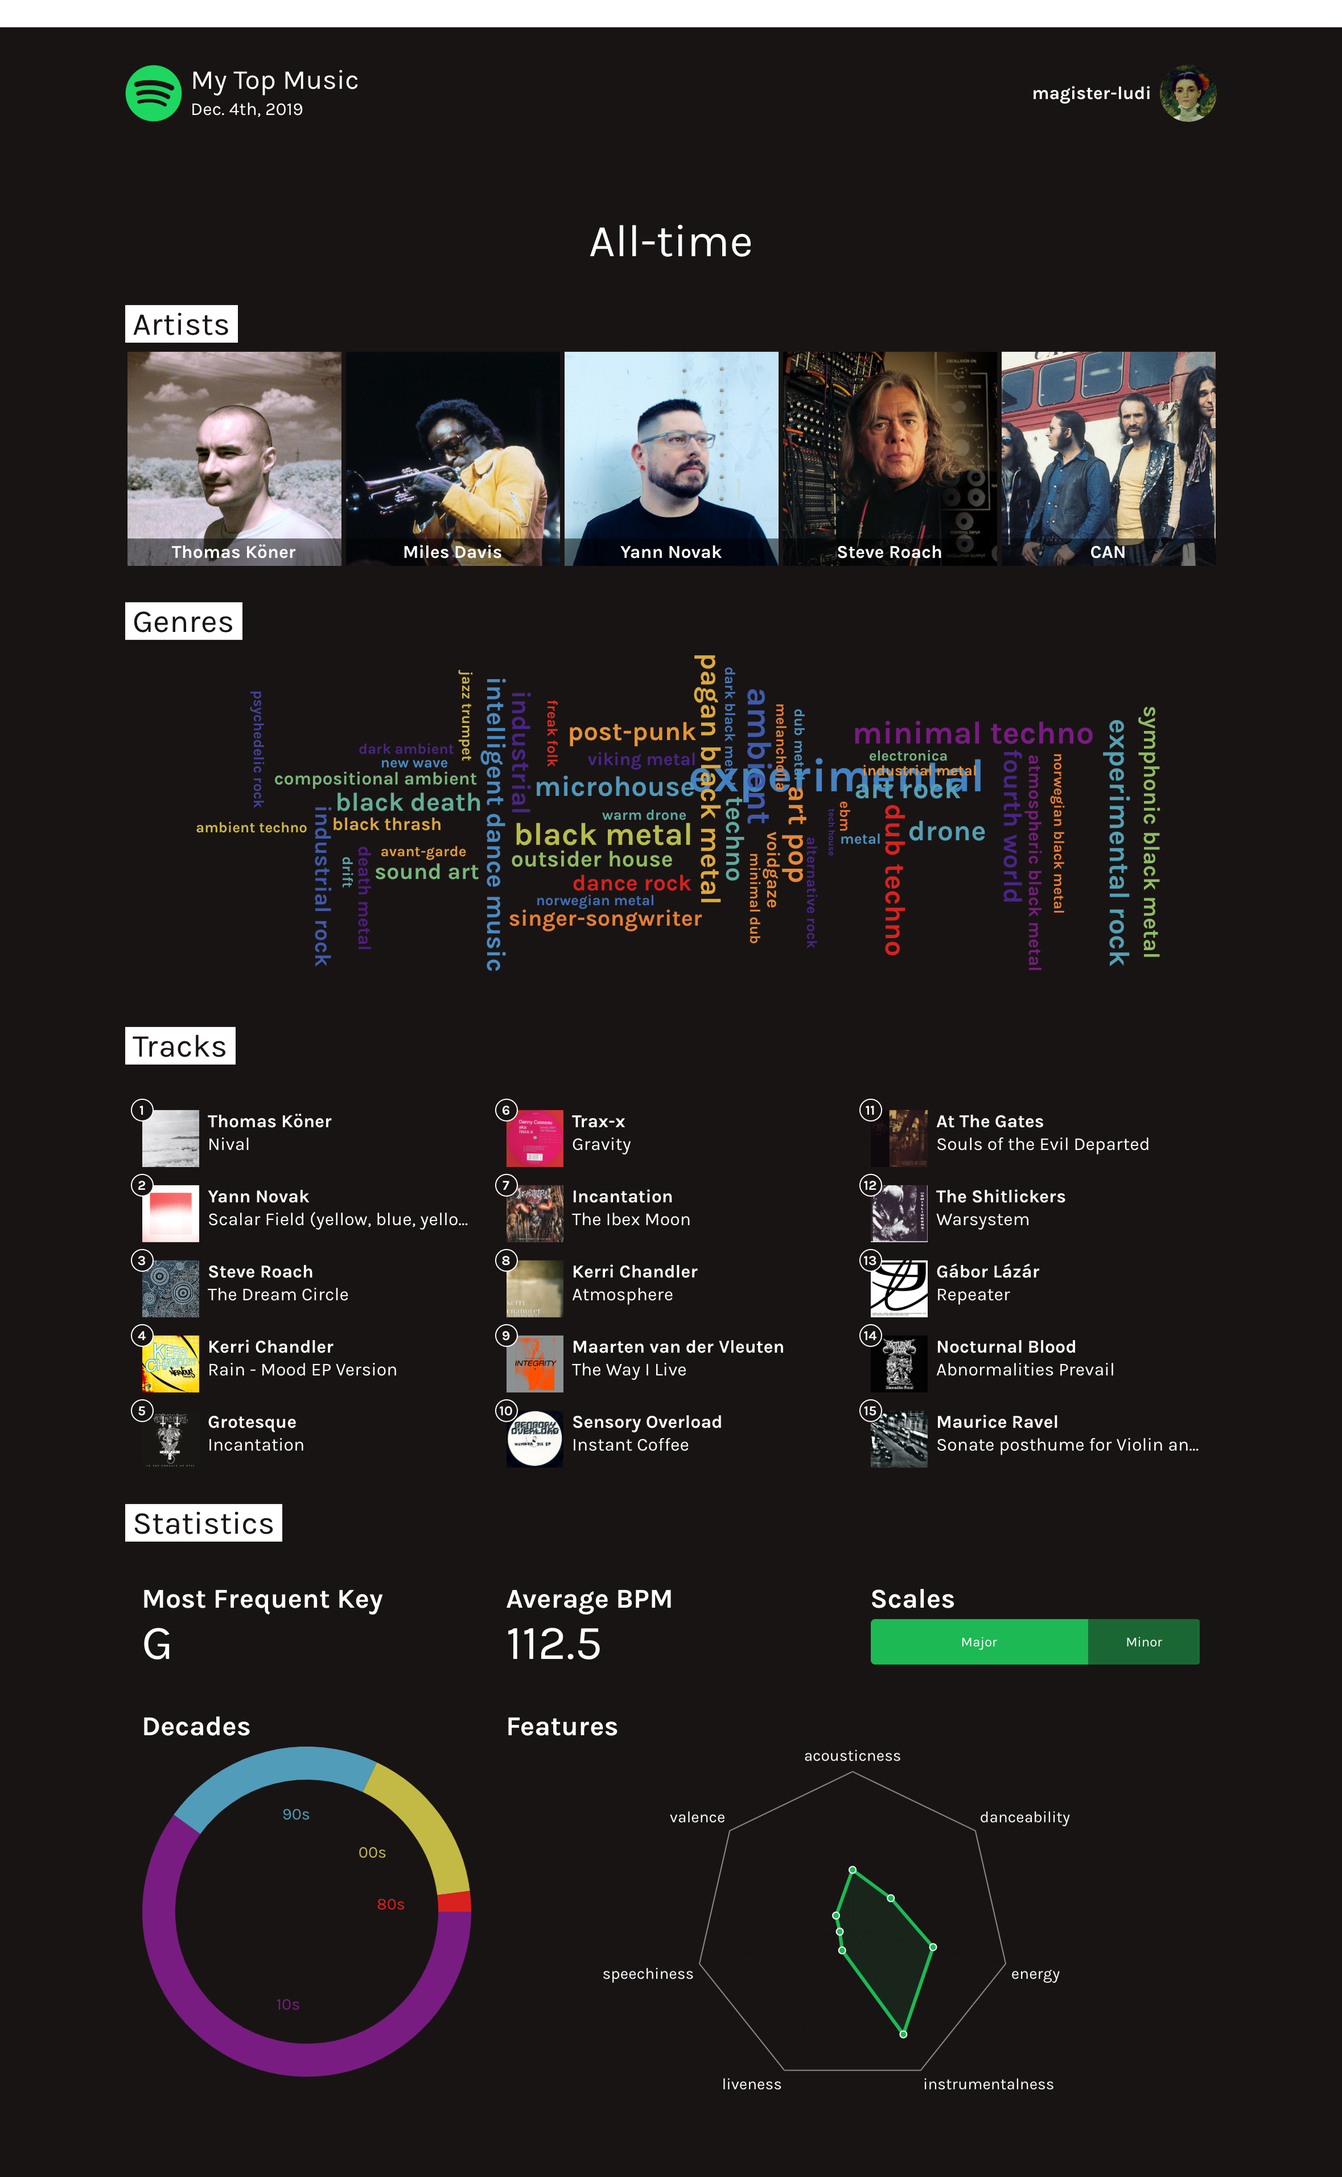
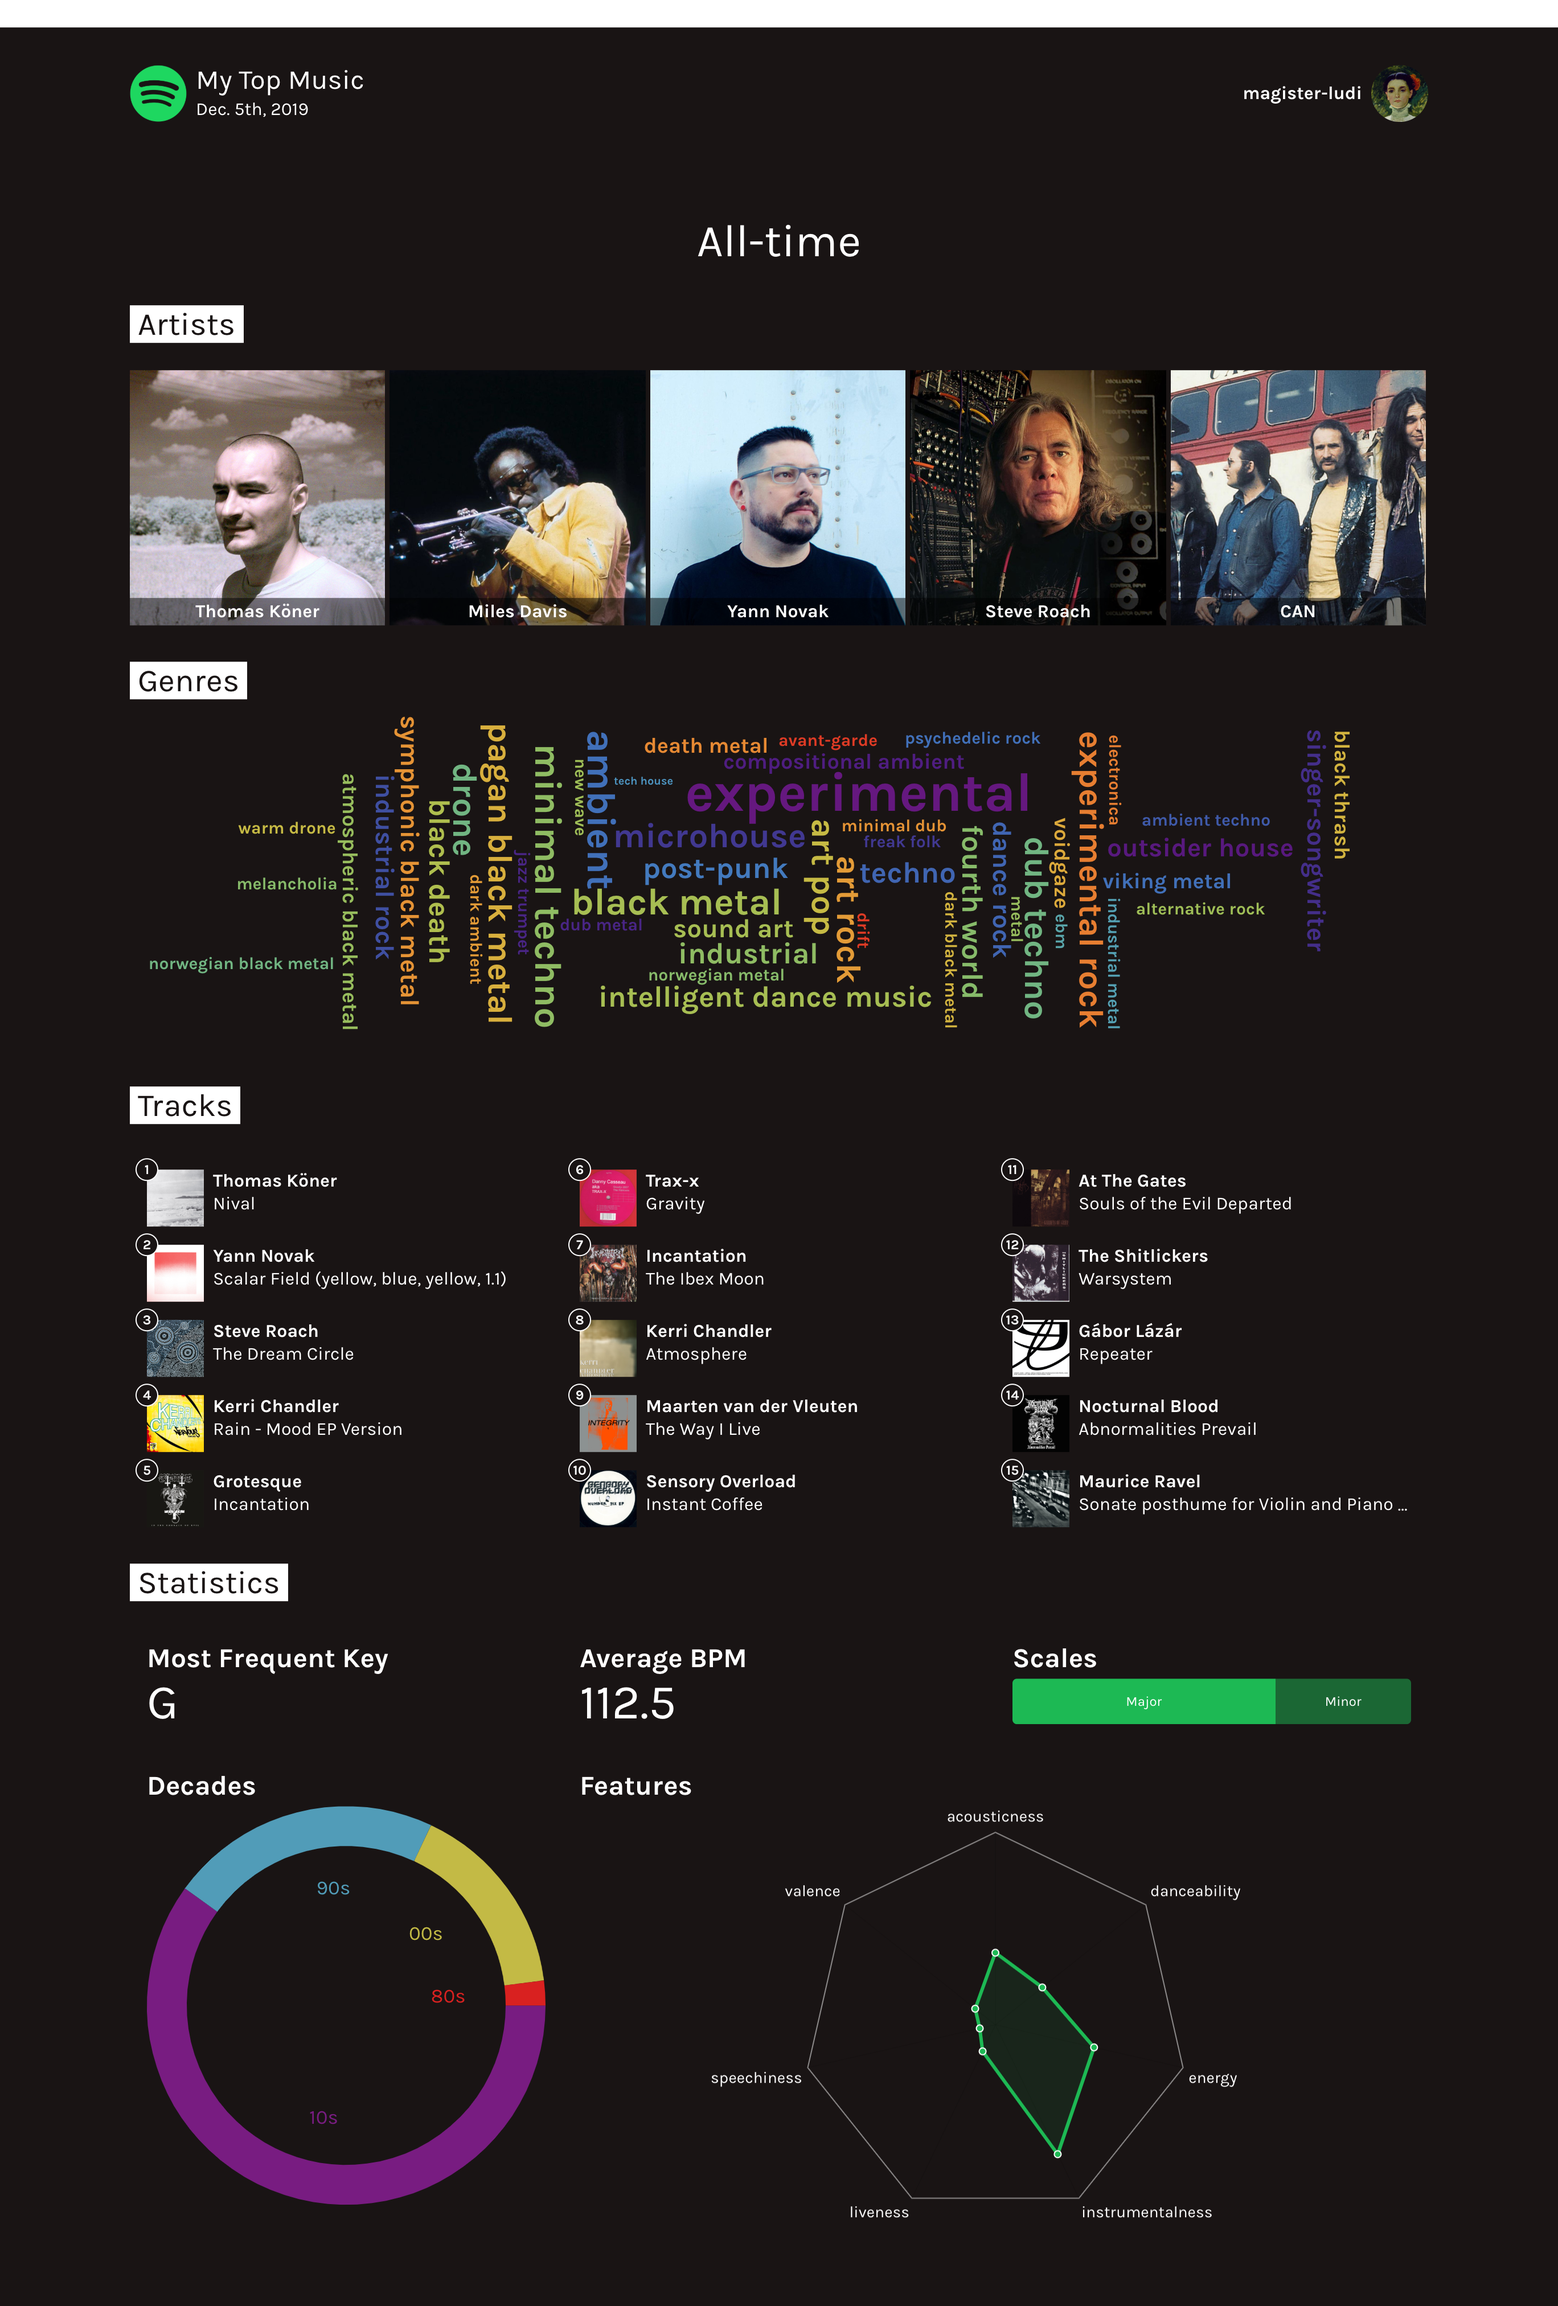
new example image

diff --git a/src/containers/App.css b/src/containers/App.css
@@ -45,7 +45,7 @@ body, #top-spotify {
 }
 
 .splash {
-  width: 90%
+  width: 100%
 }
 
 .splash-header {
